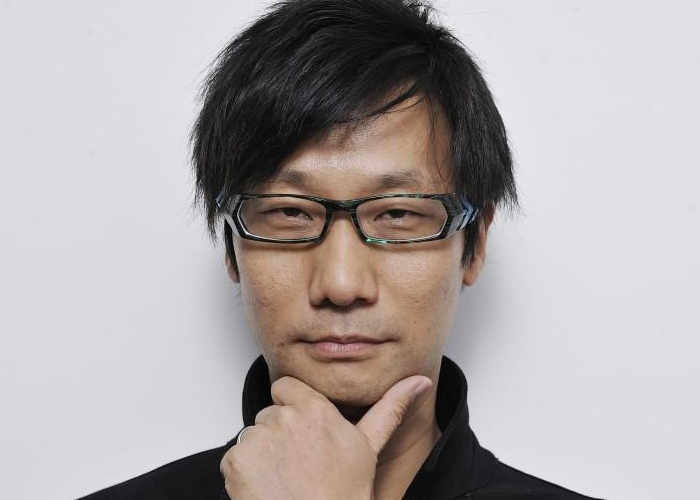
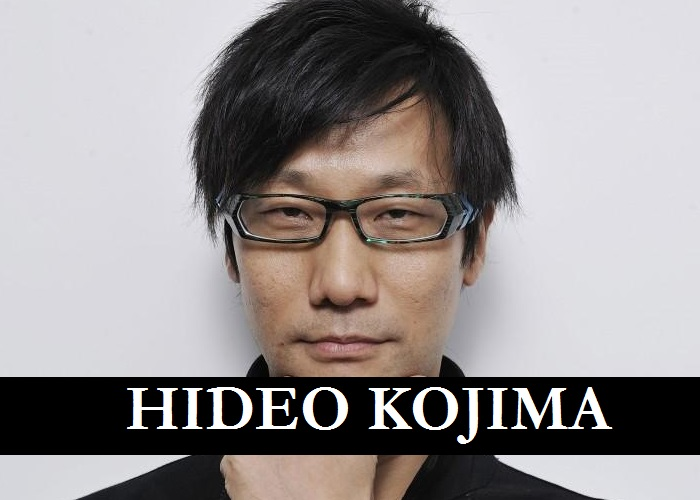
larovere ha aggiornato le immagini delle biografie

Changed region(s): [[0.0, 0.75, 1.0, 0.93]]

diff --git a/dataW/sito/larrystrap/biografia.html b/dataW/sito/larrystrap/biografia.html
@@ -133,12 +133,12 @@
 
     <!-- Navigation -->
     <nav class="navbar navbar-custom navbar-fixed-top" role="navigation">
-        <div class="container">
+        <div class="container" >
             <div class="navbar-header">
                 <button type="button" class="navbar-toggle" data-toggle="collapse" data-target=".navbar-main-collapse">
                     <i class="fa fa-bars"></i>
                 </button>
-                <a href="index.html#job" ><img src="img/back.png" style="width: 50px; height: 30px; margin-top:10px;"></a>
+                <a href="index.html#job" ><img src="img/back.png" style="width: 40px; height: 40px; margin-top:10px;"></a>
             </div>
 
             <!-- Collect the nav links, forms, and other content for toggling -->
@@ -159,7 +159,13 @@
                     </li>
                     <li>
                         <a class="page-scroll" href="#images">HIDEO KOJIMA</a>
-                    </li>                    
+                    </li>    
+					<li>
+                        <a class="page-scroll" href="#bill">BILL GATES</a>
+                    </li>
+					<li>
+                        <a class="page-scroll" href="#steve">STEVE JOBS</a>
+                    </li> 
                 </ul>
             </div>
             <!-- /.navbar-collapse -->
@@ -189,11 +195,10 @@
         <div class="home" id="zuckerberg">
             <div class="container" >
                 <div class="col-lg-8 col-lg-offset-2">
-                    <h2><B>MARK ELLIOT ZUCKERBERG</b></h2>
-                    <img src="img/persone/primo.jpg" style="width: 300px; height: 200px;">
+					<img src="img/persone/primo.jpg" style="width: 250px; height: 300px;">
                     <br />
                     <br />
-                    <p>Mark Elliot Zuckerberg nato a White Plains il 14 maggio 1984 è un informatico e imprenditore statunitense, conosciuto per essere uno dei cinque fondatori del social network Facebook.
+                    <p>Nato a White Plains il 14 maggio 1984 è un informatico e imprenditore statunitense, conosciuto per essere uno dei cinque fondatori del social network Facebook.
 					Dall'aprile 2013 Zuckerberg è presidente e amministratore delegato di Facebook Inc. e Whatsapp Inc. In qualità di fondatore di Facebook. Attualmente è il 16° uomo più ricco del mondo e primo tra i più giovani, in quanto il suo patrimonio ammonta a circa 41,2 miliardi di dollari.
 					Insieme ai suoi compagni di stanza e studenti dell'Harvard University Eduardo Saverin, Andrew McCollum, Dustin Moskovitz e Chris Hughes, Zuckerberg creò Facebook in una stanza del dormitorio di Harvard. Nel 2007, all'età di 23 anni, Zuckerberg divenne miliardario a seguito del successo di Facebook. Nel 2012, in tutto il mondo, il numero di utenti registrati a Facebook raggiunse il miliardo. Zuckerberg fu coinvolto in diverse azioni legali che furono intentate da altri membri del gruppo, i quali reclamavano una quota azionaria sulla base del loro coinvolgimento durante la fase di sviluppo di Facebook. Dal 2010 Zuckerberg viene inserito tra le 100 persone più ricche e influenti del mondo. 
 
@@ -216,7 +221,6 @@
         <div class="jo" ID="kevin">
             <div class="container">
                 <div class="col-lg-8 col-lg-offset-2">	
-				<h2><b>KEVIN DAVID MITNICK</b></h2>
                 <img src="img/persone/secondo.jpg" style="width: 300px; height: 200px;">
                 <br />
                 <br />
@@ -238,8 +242,7 @@ Attualmente è amministratore delegato dell'azienda di consulenza e sicurezza in
         <div class="uni" id="tim">
             <div class="container">
                 <div class="col-lg-8 col-lg-offset-2">
-				<h2><b>TIM BERNERS-LEE</b></h2>
-                <img src="img/persone/terzo.jpg" style="width: 300px; height: 200px;">
+                <img src="img/persone/terzo.jpg" style="width: 300px; height: 300px;">
                 <br />
                 <br />
 				<p>Sir Timothy John Berners-Lee nato a Londra l 8 giugno del 1955 è un informatico britannico, co-inventore insieme a Robert Cailliau del World Wide Web e dell' HTML.
@@ -257,11 +260,10 @@ Nel 1989 propose un progetto globale sull'ipertesto, poi noto come World Wide We
         <div class="home" id="koji">
             <div class="container">
                 <div class="col-lg-8 col-lg-offset-2">
-				<h2><b>HIDEO KOJIMA</b></h2>
                 <img src="img/persone/quarto.jpg" style="width: 300px; height: 200px;">
                 <br />
                 <br />
-				<p>Hideo Kojima nato a Tokyo il 24 agosto del 1963 è un autore di videogiochi e scrittore giapponese. Tra i videogiochi da lui realizzati spicca la saga di Metal Gear. È inoltre stato vicepresidente della software house Konami e dal 2005 al 2015 è stato a capo di Kojima Productions per poi uscire da Konami, sciogliendo lo studio.
+				<p>Nato a Tokyo il 24 agosto del 1963 è un autore di videogiochi e scrittore giapponese. Tra i videogiochi da lui realizzati spicca la saga di Metal Gear. È inoltre stato vicepresidente della software house Konami e dal 2005 al 2015 è stato a capo di Kojima Productions per poi uscire da Konami, sciogliendo lo studio.
 Durante l'infanzia sviluppa una forte passione per il cinema e per libri d'avventura e d'azione di impronta statunitense. Viene assunto dalla Konami nel 1986, per la quale realizza nel 1987 Metal Gear per piattaforma MSX, titolo che getta le basi di quella che è la sua serie più conosciuta e apprezzata. Il titolo che lo consacra definitivamente come uno dei più geniali game designer della storia, è Metal Gear Solid, uscito nel 1998 per PlayStation.
 
 iniziò a scrivere racconti e ad inviarli a note riviste giapponesi. Purtroppo per gli standard di tali riviste, Kojima stesso ha detto, i suoi racconti erano troppo lunghi e complessi: potevano arrivare a toccare la soglia delle 400 pagine, mentre la maggior parte delle riviste volevano che i loro racconti non superassero le 100 pagine. Dai racconti passò poi a filmare con una camera Video.
@@ -269,6 +271,58 @@ La sua sfegatata passione per i film, crebbe e sboccò poi nei meandri del conte
 Tuttavia l'entrata nel mondo dei videogiochi non fu affatto semplice, però riuscì comunque ad entrare in Konami ed iniziò a contribuire allo sviluppo di alcuni giochi durante il periodo d'oro di Nintendo.
 Nel 1987, però, si presenta la sua vera grande opportunità di ritagliarsi uno spazio nell'intera industria: Metal Gear, il gioco fu distribuito, inizialmente solo in Europa e Giappone su MSX, poi anche negli Stati Uniti per NES; ed ebbe un grande successo.
 Nel 1990 Kojima, spinto dal successo del primo capitolo ne produsse altri, sfruttando anche il successo di sony con PlayStation. 
+</p>
+                 </div>
+            </div>
+         </div>
+    </section>
+	
+	    <section id="bill" class="content-section text-center">
+        <div class="jo" ID="kevin">
+            <div class="container">
+                <div class="col-lg-8 col-lg-offset-2">	
+                <img src="img/persone/quinto.jpg" style="width: 300px; height: 200px;">
+                <br />
+                <br />
+				<p>Nato il 28 ottobre 1955 a Seattle, Bill Gates ha sviluppato fin da giovanissimo una passione per i computer e tutto ciò che possiede caratteristiche tecnologiche, fino ad arrivare a sviluppare programmi in completa autonomia.
+Proprio "smanettando" su quei lenti e laboriosi calcolatori che Bill Gates comincia ad intuire che il passo per una loro reale diffusione passa attraverso una semplificazione del linguaggio, ossia attraverso una "popolarizzazione" del modo in cui si danno le istruzioni.
+
+tutto iniziò nel 1968, l'anno in cui si iscrisse alla prestigiosa scuola privata Lakeside, Gates ebbe accesso per la prima volta a un computer La scuola aveva affittato un certo numero di ore di utilizzo con lo scopo di scoprire e correggere i bug. Gates, il compagno di studi Paul Allen e altri studenti divennero inseparabili dal computer.Successivamente, nel 1972, Bill e Paul fondarono la Traf-O-Data, che progettò un computer per misurare il traffico stradale.
+
+Nell'autunno del 1973, Bill Gates si iscrisse in Legge alla Harvard University, come desideravano i suoi genitori, ma in più si iscrisse anche al corso di matematica. Da studente, come alle scuole superiori, non ottenne risultati di particolare rilievo. E si perse nuovamente nel centro informatico dell'istituto.
+
+Allen insistette sempre più con l'idea che dovevano fondare una società di software. Gates esitava perché non era interessato all'informatica e voleva proseguire gli studi.
+Nel dicembre 1974 uscì sul mercato americano il primo kit di montaggio per Microcomputer Altair 8800. Gates ed Allen intuirono che il mercato dei computer personali stava per esplodere e sarebbe servito software per le nuove macchine. Iniziarono così a sviluppare software usando l'hardware della General Electric, con cui Gates ed Allen avevano avuto le prime esperienze, e il linguaggio BASIC.
+
+Gates e Allen si trasferirono ad Albuquerque e nell'aprile 1975, Gates ed Allen fondarono la Microsoft Corporation. La Microsoft vendette il suo sistema Basic alla NCR Corporation e all'Intel e assunse poi Marc McDonald e Ric Weiland, amici dalla scuola Lakeside.
+</p>
+                </div>
+            </div>
+        </div>
+    </section>
+	
+	<section id="steve" class="content-section text-center">
+        <div class="uni" id="tim">
+            <div class="container">
+                <div class="col-lg-8 col-lg-offset-2">
+                <img src="img/persone/sesto.jpg" style="width: 300px; height: 300px;">
+                <br />
+                <br />
+				<p>Steven Paul Jobs, noto semplicemente come Steve Jobs (San Francisco, 24 febbraio 1955 – Palo Alto, 5 ottobre 2011), è stato un informatico, inventore, imprenditore e produttore cinematografico statunitense.
+Nato da madre svizzera  e padre siriano , Steve non fu cresciuto dai suoi genitori naturali, ma fu dato in adozione appena nato. Fu adottato da Paul e Clara Jobs, residenti a Mountain View, nella contea di Santa Clara, in California.
+Nel 1972 Jobs si diplomò all'istituto Homestead di Cupertino, in California, Successivamente si iscrisse al Reed College di Portland (Oregon), ma abbandonò l'università dopo appena un semestre.
+Nel 1974 era alla Atari  insieme al suo amico Steve Wozniak.
+Successivamente i due decisero di mettersi in proprio, fondando la Apple Computer il 1º aprile del 1976.
+ La prima sede della nuova società fu il garage dei genitori di Jobs: qui lavorarono al loro primo computer, l'Apple I, inizialmente venduto ai membri dell'Homebrew Computer Club. Successivamente ottennero un finanziamento dall'industriale Mike Markkula, che versò nelle casse della società la somma di 250.000 dollari, ottenendo in cambio un terzo di Apple.
+Il 24 gennaio 1984 Apple produsse un personal computer compatto e dotato di un nuovo sistema operativo a interfaccia grafica: l'Apple Macintosh ma le vendite non raggiunsero i livelli attesi.
+Jobs e Sculley (amministratore delegato di apple) si scontrarono, ciascuno attribuendo all'altro la responsabilità del mancato successo. Sculley pose il consiglio d'amministrazione di fronte all'alternativa “o me o lui”. Il consiglio si schierò dalla sua parte.
+Uscito da Apple, Jobs decise, all'età di trent'anni, di ripartire da capo: fondò una nuova compagnia, la NeXT Computer, con l'obiettivo di avviare una nuova rivoluzione tecnologica.
+Nel 1986 acquistò la Pixar dalla Lucas Films, una casa di produzione cinematografica con l'ambizione di realizzare unicamente animazioni computerizzate.
+Nel 1997, dopo risultati commerciali altalenanti, l'amministratore delegato di Apple Gil Amelio venne allontanato e Jobs assunse nuovamente la carica di CEO ad interim, ma senza stipendio (scherzosamente veniva chiamato iCEO; ricevendo la cifra simbolica di 1 dollaro all'anno). La sua mansione peraltro ha comportato diversi premi di produzione tra i quali un jet privato da 90 milioni di dollari (1999), e poco meno di 30 milioni di dollari in azioni (2000-2002).
+Con la guida di Jobs, la Apple ha continuato a produrre e commercializzare Mac OS X, Mac, iPod, iPhone e iPad, prodotti che portarono l'azienda a divenire un punto di riferimento nel campo dell'elettronica di consumo.
+Dopo aver scoperto nel 2003 di essere affetto da una rara forma di tumore maligno al pancreas, meno aggressivo della forma più comune  sviluppatosi nei 9 mesi precedenti apparentemente senza sintomi, venne sottoposto a duodenocefalopancreatectomia per la rimozione del cancro.
+La notizia della sua morte avvenuta nella sua casa a Palo Alto in California il 5 ottobre 2011, a 56 anni, a causa di una recrudescenza del carcinoma con conseguente arresto respiratorio, venne dato dalla Apple con una sentita dichiarazione. Riposa nell'Alta Mesa Memorial Park di Palo Alto, assieme ad altri imprenditori della tecnologia, come il cofondatore di HP David Packard e l'ingegnere Lewis Terman, con i quali Jobs lavorò per alcuni mesi estivi come dipendente all’età di 13 anni.
+
 </p>
                  </div>
             </div>
